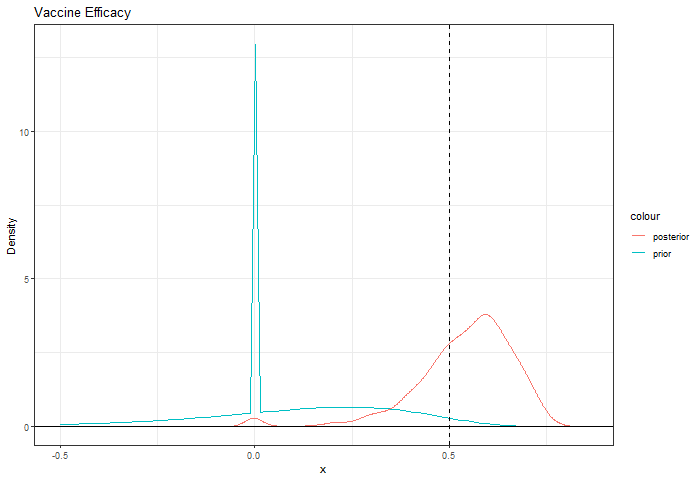
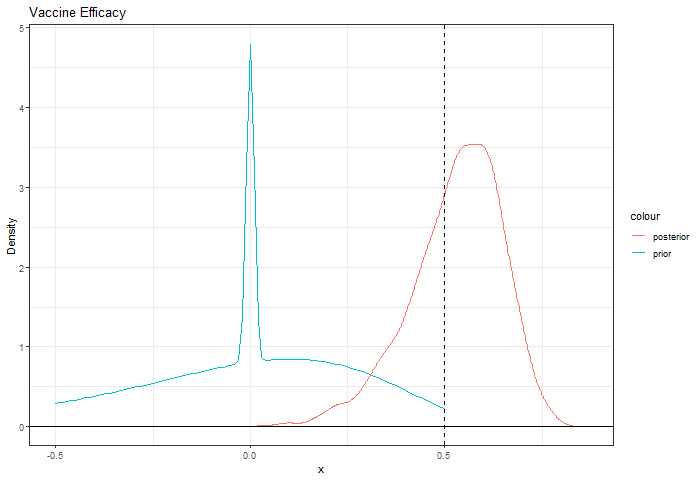
Change Prior on logRR to K-dim Gaussian Mixture
Previously the prior on logRR had a zero component distributed as Unif(-a,a) and a nonzero
component at N(mu, sigma). Changed to just a K-dim gaussian mixture for increased flexibility.

diff --git a/README.md b/README.md
@@ -9,12 +9,6 @@ given certain prior assumptions and ending the study early?” Ending the
 study early is defined as observing a certain number of cases across
 both vaccine and placebo arms of the trial.
 
-## Model
-
-log RR is a mixture between a Unif(-a, a) and N(mu, sigma). Theta
-
-![](model.png)
-
 ## Some Results
 
 Below is an example of 3000 subjects at enrollment, where the analysis
@@ -27,11 +21,10 @@ arm.
 #' @param vax_cases number of cases of total cases in vax arm
 #' @param N total number of subjects (vax and placebo) at enrollment
   
-#' @param pzero Pr(VE = 0)
-#' @param a lower bound of logRR ~ Unif(a, b)
-#' @param b upper bound of logRR ~ Unif(a, b)
-#' @param mu mean of logRR ~ N(mu, sigma)
-#' @param sigma sd of logRR ~ N(mu, sigma)
+#' @param lambda vector of mixing proportions
+#' @param mu vector mean of logRR ~ N(mu_i, sigma_i)
+#' @param sigma vector sd of logRR ~ N(mu_i, sigma_i)
+
 #' @param alpha param of theta0 ~ Beta(alpha, beta)
 #' @param beta param of theta0 ~ Beta(alpha, beta)
   
@@ -39,9 +32,9 @@ sim <- vaccine_sim(rratio=2/3,
                    cases=30, 
                    vax_cases=10, 
                    N=3000, 
-                   pzero=.25, 
-                   a=-.01, b=.01, 
-                   mu=-.38, sigma=.325, 
+                   lambda=c(.1, .45, .45), 
+                   mu=c(0, -.38, -.1), 
+                   sigma=c(0.01, .325, .325), 
                    alpha=.15, beta=10, iter=1000)
 ```
 
